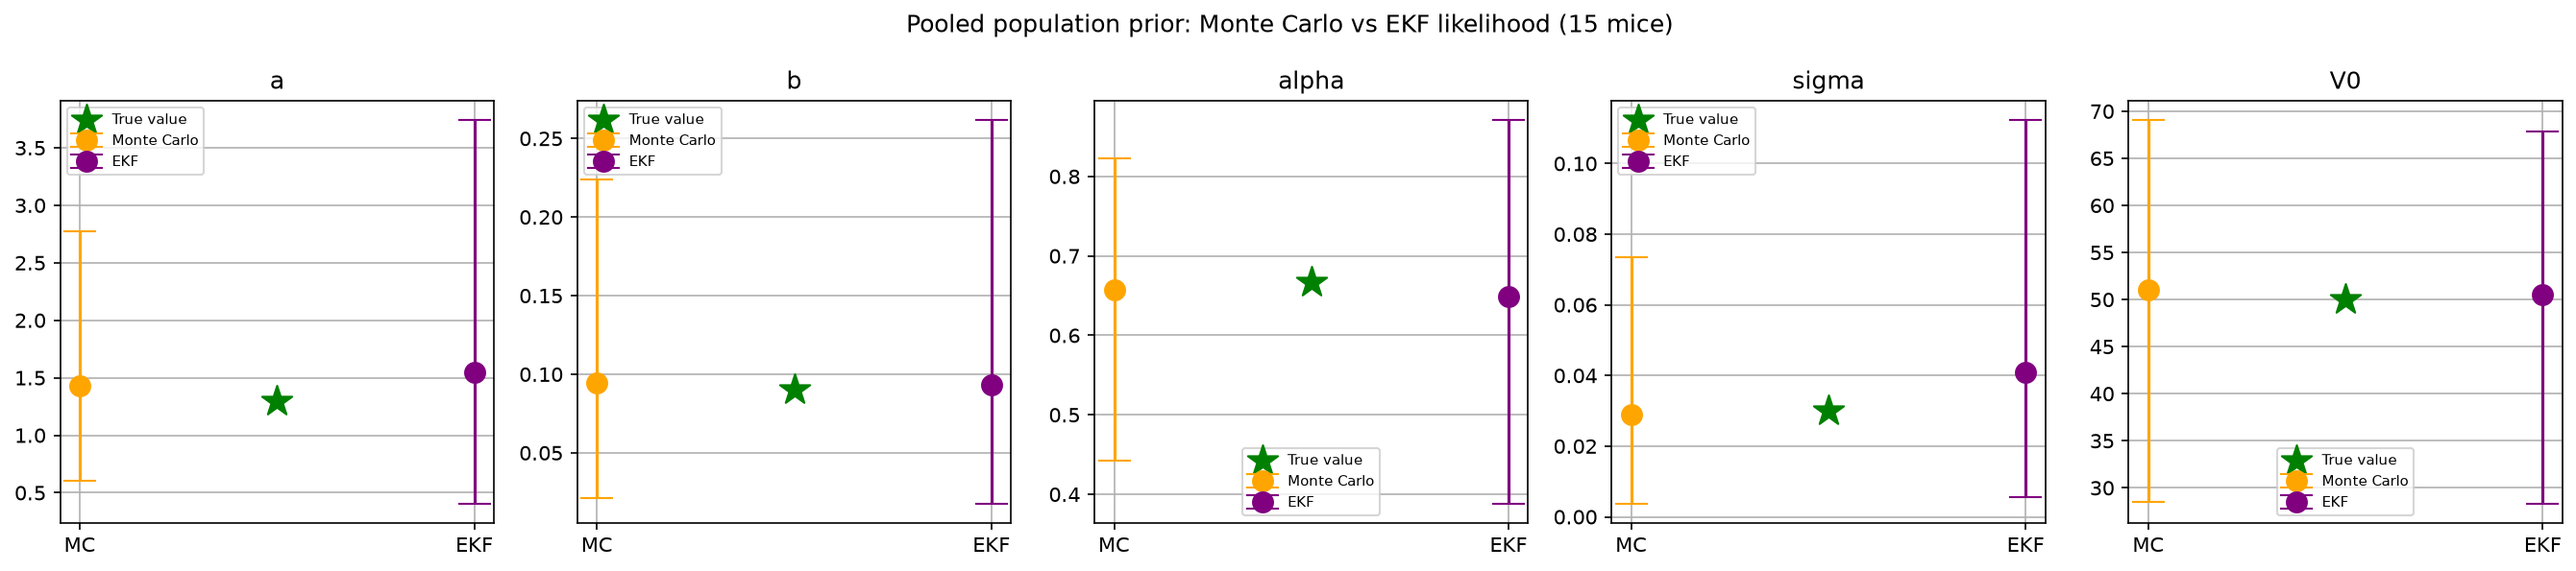
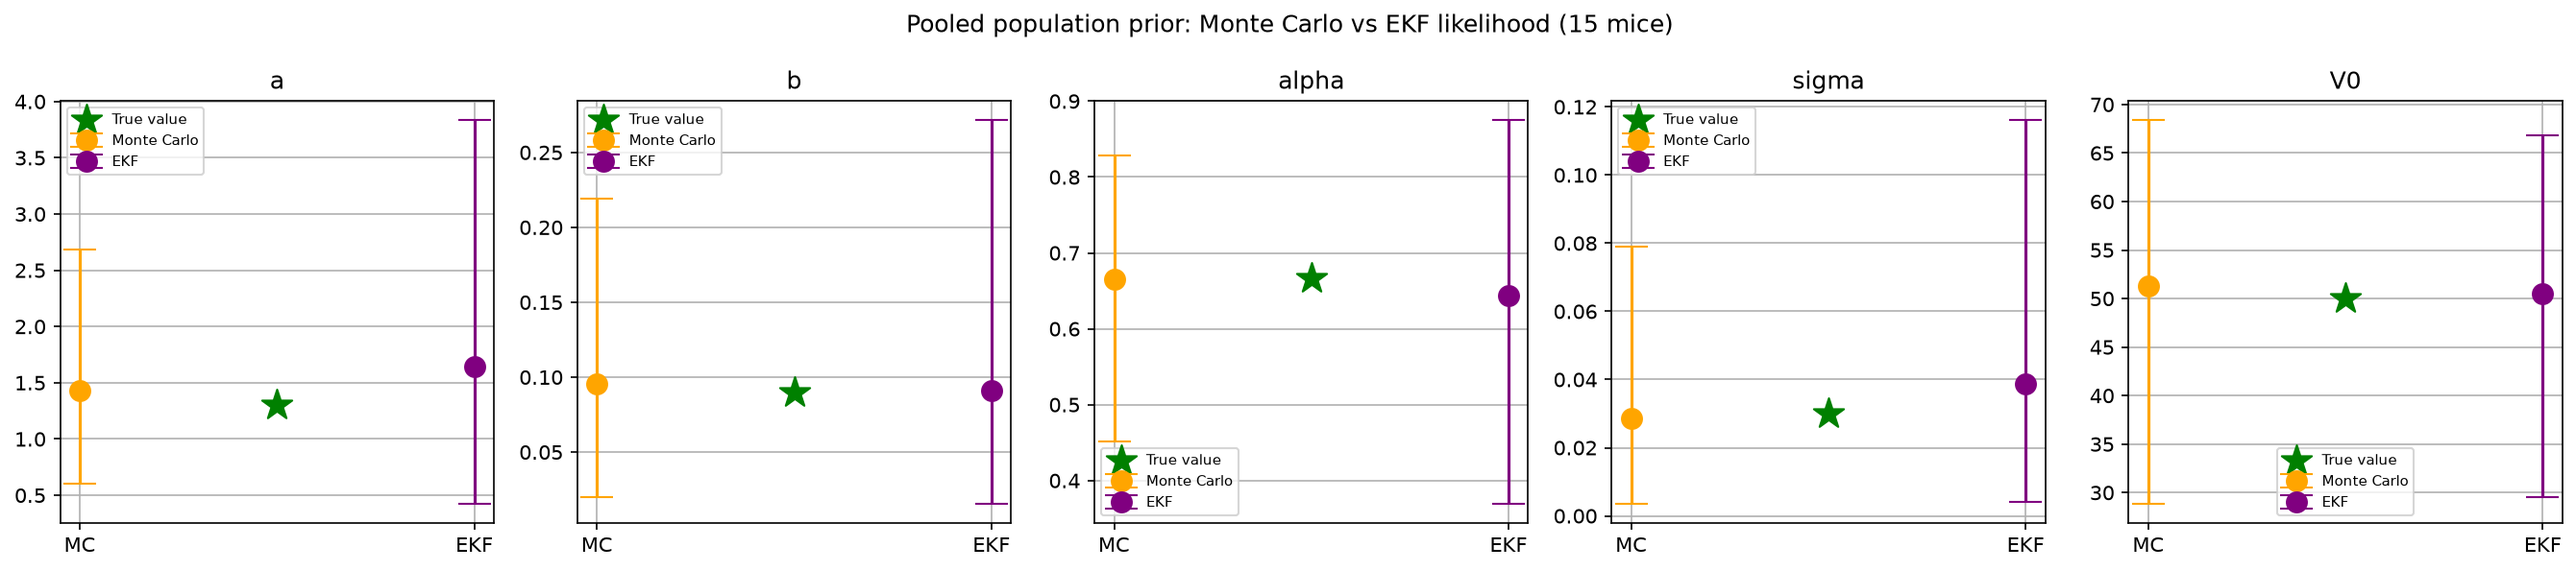
saved the online identification notebook

diff --git a/src/calibration.py b/src/calibration.py
@@ -323,3 +323,230 @@ def get_weights_nsm_resampled_diversified(param_samples, V0_samples, observed_da
             log_w = np.zeros(n_samples)
 
     return weights_history, all_curves, current_params
+
+
+
+
+
+def get_weights_nsm_resampled_covariance(param_samples, V0_samples, observed_days, observed_volumes,
+                                            meas_sigma=5.0, ess_threshold_ratio=0.5,
+                                            diversify_scale=0.3):
+    """
+    Same as get_weights_nsm_resampled_diversified, but the
+    post-resampling perturbation uses a Gaussian kernel with the
+    FULL covariance matrix of the current particle set (like the KDE
+    pooling step), instead of an isotropic gaussian per-dimension --
+    this respects correlations between parameters (e.g. b/alpha)
+    instead of perturbing each dimension independently.
+    """
+    n_samples = len(param_samples)
+    n_times = len(observed_days)
+    ess_threshold = ess_threshold_ratio * n_samples
+
+    current_params = param_samples.copy()
+    current_V0 = V0_samples.copy()
+
+    all_curves = np.full((n_samples, n_times), np.nan)
+    weights_history = np.zeros((n_samples, n_times))
+    log_w = np.zeros(n_samples)
+
+    for t_idx in range(n_times):
+        day = observed_days[t_idx]
+        y_obs = observed_volumes[t_idx]
+
+        for i in range(n_samples):
+            a, b, alpha = current_params[i]
+            V0 = current_V0[i]
+
+            def ode_rhs(t, V):
+                return a * V**alpha - b * V
+
+            sol = solve_ivp(ode_rhs, [0, day], [V0], method="RK45",
+                             rtol=1e-4, atol=1e-4)
+            if not sol.success:
+                log_w[i] = -np.inf
+                continue
+
+            predicted = sol.y[0][-1]
+            all_curves[i, t_idx] = predicted
+
+            residual = y_obs - predicted
+            log_w[i] += -0.5 * (residual / meas_sigma) ** 2
+
+        finite_mask = np.isfinite(log_w)
+        w = np.zeros(n_samples)
+        w[finite_mask] = np.exp(log_w[finite_mask] - np.max(log_w[finite_mask]))
+        w = w / w.sum()
+        weights_history[:, t_idx] = w
+
+        ess = 1.0 / np.sum(w ** 2)
+        if ess < ess_threshold and t_idx < n_times - 1:
+            idx_resample = np.random.choice(n_samples, size=n_samples, p=w)
+            resampled_params = current_params[idx_resample]
+            resampled_V0 = current_V0[idx_resample]
+
+            # perturbation with the FULL covariance of the (pre-resample) params
+            n_dim = 4  # a, b, alpha treated jointly + V0 separately
+            combined = np.column_stack([current_params, current_V0])
+            cov = np.cov(combined, rowvar=False)
+
+            # Silverman-style bandwidth scaling on the covariance
+            n_eff = n_samples
+            bandwidth_scale = diversify_scale * (4 / (n_dim + 2))**(1/(n_dim+4)) * n_eff**(-1/(n_dim+4))
+            perturbation = np.random.multivariate_normal(
+                mean=np.zeros(n_dim), cov=cov * bandwidth_scale**2, size=n_samples
+            )
+
+            resampled_combined = np.column_stack([resampled_params, resampled_V0]) + perturbation
+            current_params = resampled_combined[:, :3]
+            current_V0 = np.clip(resampled_combined[:, 3], 1.0, None)
+            log_w = np.zeros(n_samples)
+
+    return weights_history, all_curves, current_params, current_V0
+
+
+
+
+def get_weights_nsm_resampled_covariance_always(param_samples, V0_samples, observed_days, observed_volumes,
+                                                    meas_sigma=5.0, diversify_scale=0.3):
+    """
+    Same as get_weights_nsm_resampled_covariance, but resamples and
+    diversifies at EVERY measurement step, not just when ESS drops
+    below a threshold -- prevents weight accumulation from ever
+    building up enough to collapse.
+    """
+    n_samples = len(param_samples)
+    n_times = len(observed_days)
+
+    current_params = param_samples.copy()
+    current_V0 = V0_samples.copy()
+
+    all_curves = np.full((n_samples, n_times), np.nan)
+    weights_history = np.zeros((n_samples, n_times))
+
+    for t_idx in range(n_times):
+        day = observed_days[t_idx]
+        y_obs = observed_volumes[t_idx]
+
+        log_w = np.zeros(n_samples)  # fresh weights each step, not cumulative
+
+        for i in range(n_samples):
+            a, b, alpha = current_params[i]
+            V0 = current_V0[i]
+
+            def ode_rhs(t, V):
+                return a * V**alpha - b * V
+
+            sol = solve_ivp(ode_rhs, [0, day], [V0], method="RK45",
+                             rtol=1e-4, atol=1e-4)
+            if not sol.success:
+                log_w[i] = -np.inf
+                continue
+
+            predicted = sol.y[0][-1]
+            all_curves[i, t_idx] = predicted
+
+            residual = y_obs - predicted
+            log_w[i] = -0.5 * (residual / meas_sigma) ** 2
+
+        finite_mask = np.isfinite(log_w)
+        w = np.zeros(n_samples)
+        w[finite_mask] = np.exp(log_w[finite_mask] - np.max(log_w[finite_mask]))
+        w = w / w.sum()
+        weights_history[:, t_idx] = w
+
+        if t_idx < n_times - 1:
+            idx_resample = np.random.choice(n_samples, size=n_samples, p=w)
+            resampled_params = current_params[idx_resample]
+            resampled_V0 = current_V0[idx_resample]
+
+            n_dim = 4
+            combined = np.column_stack([current_params, current_V0])
+            cov = np.cov(combined, rowvar=False)
+
+            n_eff = n_samples
+            bandwidth_scale = diversify_scale * (4 / (n_dim + 2))**(1/(n_dim+4)) * n_eff**(-1/(n_dim+4))
+            perturbation = np.random.multivariate_normal(
+                mean=np.zeros(n_dim), cov=cov * bandwidth_scale**2, size=n_samples
+            )
+
+            resampled_combined = np.column_stack([resampled_params, resampled_V0]) + perturbation
+            current_params = resampled_combined[:, :3]
+            current_V0 = np.clip(resampled_combined[:, 3], 1.0, None)
+
+    return weights_history, all_curves, current_params, current_V0
+
+
+
+def get_weights_nsm_particle_filter(param_samples, V0_samples, observed_days, observed_volumes,
+                                      meas_sigma=5.0, diversify_scale=0.3, ess_threshold_ratio=0.5):
+    """
+    Proper particle filter structure: each particle's trajectory is
+    simulated ONCE per segment (from the previous measurement day to
+    the current one), continuing from where it left off -- not
+    re-simulated from t=0 each time. Resampling/diversification only
+    changes which particle continues forward, preserving trajectory
+    continuity.
+    """
+    n_samples = len(param_samples)
+    n_times = len(observed_days)
+    ess_threshold = ess_threshold_ratio * n_samples
+
+    current_params = param_samples.copy()   # (a, b, alpha) per particle, fixed for its lifetime unless resampled
+    current_state = V0_samples.copy()       # current V(t) for each particle, evolves forward
+
+    all_curves = np.full((n_samples, n_times), np.nan)
+    weights_history = np.zeros((n_samples, n_times))
+    log_w = np.zeros(n_samples)
+
+    t_prev = 0.0
+
+    for t_idx in range(n_times):
+        day = observed_days[t_idx]
+        y_obs = observed_volumes[t_idx]
+
+        for i in range(n_samples):
+            a, b, alpha = current_params[i]
+            V_start = current_state[i]
+
+            def ode_rhs(t, V):
+                return a * V**alpha - b * V
+
+            sol = solve_ivp(ode_rhs, [t_prev, day], [V_start], method="RK45",
+                             rtol=1e-4, atol=1e-4)
+            if not sol.success:
+                log_w[i] = -np.inf
+                current_state[i] = np.nan
+                continue
+
+            V_end = sol.y[0][-1]
+            current_state[i] = V_end  # continue from here next segment
+            all_curves[i, t_idx] = V_end
+
+            residual = y_obs - V_end
+            log_w[i] += -0.5 * (residual / meas_sigma) ** 2
+
+        finite_mask = np.isfinite(log_w)
+        w = np.zeros(n_samples)
+        w[finite_mask] = np.exp(log_w[finite_mask] - np.max(log_w[finite_mask]))
+        w = w / w.sum()
+        weights_history[:, t_idx] = w
+
+        ess = 1.0 / np.sum(w ** 2)
+        if ess < ess_threshold and t_idx < n_times - 1:
+            idx_resample = np.random.choice(n_samples, size=n_samples, p=w)
+            current_params = current_params[idx_resample]
+            current_state = current_state[idx_resample]  # continuity preserved: keeps the actual V(t) reached
+
+            # diversify only the (a,b,alpha) going forward, not the state itself
+            cov = np.cov(current_params, rowvar=False)
+            bandwidth_scale = diversify_scale * (4 / 5)**(1/7) * n_samples**(-1/7)
+            perturbation = np.random.multivariate_normal(
+                mean=np.zeros(3), cov=cov * bandwidth_scale**2, size=n_samples
+            )
+            current_params = current_params + perturbation
+            log_w = np.zeros(n_samples)
+
+        t_prev = day
+
+    return weights_history, all_curves

diff --git a/notebooks/online_identification.py b/notebooks/online_identification.py
@@ -343,4 +343,160 @@ for ti in [1, 4, 8]:
 
 print("\nUnique 'a' values in FINAL pool:", len(np.unique(np.round(final_params[:, 0], 4))), "/", n_weight_samples)
 
+# %% [markdown]
+# #### resampled covariance
+
+# %%
+from calibration import get_weights_nsm_resampled_covariance
+np.random.seed(42)
+weights_cov, curves_cov, final_params_cov, final_V0_cov = get_weights_nsm_resampled_covariance(
+    param_samples, V0_samples, test_days, test_volumes
+)
+
+print("=== CLOSE start — ESS with covariance-aware resampling ===")
+for ti in [1, 4, 8]:
+    ess = effective_sample_size(weights_cov[:, ti])
+    print(f"After {ti+1} measurements: ESS = {ess:.1f} / {n_weight_samples} samples")
+
+print("\nUnique 'a' values in FINAL pool:", len(np.unique(np.round(final_params_cov[:, 0], 4))), "/", n_weight_samples)
+
+# %% [markdown]
+# #### resampled covariance always
+
+# %%
+from calibration import get_weights_nsm_resampled_covariance_always
+# %%
+np.random.seed(42)
+weights_always, curves_always, final_params_always, final_V0_always = get_weights_nsm_resampled_covariance_always(
+    param_samples, V0_samples, test_days, test_volumes
+)
+
+print("=== ESS with resampling at EVERY step ===")
+for ti in [1, 4, 8]:
+    ess = effective_sample_size(weights_always[:, ti])
+    print(f"After {ti+1} measurements: ESS = {ess:.1f} / {n_weight_samples} samples")
+
+print("\nUnique 'a' values in FINAL pool:", len(np.unique(np.round(final_params_always[:, 0], 4))), "/", n_weight_samples)
+
+# %% [markdown]
+# ####### Going from strict to not strict
+
+# %%
+# %%
+np.random.seed(42)
+weights_v2, curves_v2, final_params_v2, final_V0_v2 = get_weights_nsm_resampled_covariance_always(
+    param_samples, V0_samples, test_days, test_volumes,
+    meas_sigma=15.0,       # plus permissif, au lieu de 5.0
+    diversify_scale=1.0    # plus de dispersion, au lieu de 0.3
+)
+
+print("=== ESS with wider meas_sigma + stronger diversification ===")
+for ti in [1, 4, 8]:
+    ess = effective_sample_size(weights_v2[:, ti])
+    print(f"After {ti+1} measurements: ESS = {ess:.1f} / {n_weight_samples} samples")
+
+print("\nUnique 'a' values in FINAL pool:", len(np.unique(np.round(final_params_v2[:, 0], 4))), "/", n_weight_samples)
+
+# %% [markdown]
+# ##### does it change prediction precision ?
+
+# %%
+# %%
+fig, axes = plt.subplots(1, 3, figsize=(15, 4), sharey=True)
+time_indices_to_show = [1, 4, 8]
+
+for ax, ti in zip(axes, time_indices_to_show):
+    w = weights_v2[:, ti]
+    weighted_curve = np.average(curves_v2, axis=0, weights=w)
+
+    ax.plot(test_days, curves_v2.T, color="gray", alpha=0.05)
+    ax.plot(test_days, weighted_curve, color="red", linewidth=2, label="Weighted prediction")
+    ax.scatter(test_days[:ti+1], test_volumes[:ti+1], color="black", zorder=5, label="Seen data")
+    ax.scatter(test_days[ti+1:], test_volumes[ti+1:], color="lightgray", zorder=5, label="Future data")
+    ax.set_ylim(0, 2500)
+    ax.set_title(f"After {ti+1} measurements")
+    ax.legend(fontsize=7)
+
+plt.suptitle("Online update with covariance-aware resampling + wider likelihood (fixes weight degeneracy)")
+plt.tight_layout()
+plt.show()
+
+# %% [markdown]
+# ##### FILTER TENTATIVE
+
+# %%
+# %%
+from calibration import get_weights_nsm_particle_filter
+np.random.seed(42)
+weights_pf, curves_pf = get_weights_nsm_particle_filter(
+    param_samples, V0_samples, test_days, test_volumes,
+    meas_sigma=15.0, diversify_scale=1.0
+)
+
+print("=== Proper particle filter — ESS ===")
+for ti in [1, 4, 8]:
+    ess = effective_sample_size(weights_pf[:, ti])
+    print(f"After {ti+1} measurements: ESS = {ess:.1f} / {n_weight_samples} samples")
+
+# %%
+# %%
+fig, axes = plt.subplots(2, 3, figsize=(15, 8), sharey=True, sharex=True)
+time_indices_to_show = [1, 4, 8]
+
+for row, (curves_r, weights_r, row_label) in enumerate([
+    (curves_clean, weights_clean, "Before (original method)"),
+    (curves_pf, weights_pf, "After (particle filter fix)"),
+]):
+    for col, ti in enumerate(time_indices_to_show):
+        ax = axes[row, col]
+        w = weights_r[:, ti]
+        weighted_curve = np.average(curves_r, axis=0, weights=w)
+
+        ax.plot(test_days, curves_r.T, color="gray", alpha=0.05)
+        ax.plot(test_days, weighted_curve, color="red", linewidth=2, marker='o')
+        ax.scatter(test_days[:ti+1], test_volumes[:ti+1], color="black", zorder=5)
+        ax.scatter(test_days[ti+1:], test_volumes[ti+1:], color="lightgray", zorder=5)
+        ax.set_ylim(0, 2500)
+        if row == 0:
+            ax.set_title(f"After {ti+1} measurements")
+        if col == 0:
+            ax.set_ylabel(row_label)
+
+plt.suptitle("Online update, held-out mouse 15 (close start): before vs after particle filter fix")
+plt.tight_layout()
+plt.savefig("../results/particle_filter_before_after.png", dpi=150, bbox_inches="tight")
+plt.show()
+
+# %%
+# %%
+fig, axes = plt.subplots(1, 3, figsize=(15, 4), sharey=True)
+time_indices_to_show = [1, 4, 8]
+
+for ax, ti in zip(axes, time_indices_to_show):
+    w = weights_pf[:, ti]
+    weighted_curve = np.average(curves_pf, axis=0, weights=w)
+
+    ax.plot(test_days, curves_pf.T, color="gray", alpha=0.1)
+    ax.plot(test_days, weighted_curve, color="red", linewidth=2, marker='o', label="Weighted prediction")
+    ax.scatter(test_days[:ti+1], test_volumes[:ti+1], color="black", zorder=5, label="Seen data")
+    ax.scatter(test_days[ti+1:], test_volumes[ti+1:], color="lightgray", zorder=5, label="Future data")
+    ax.set_ylim(0, 2500)
+    ax.set_title(f"After {ti+1} measurements")
+    ax.legend(fontsize=7)
+
+plt.suptitle("Proper particle filter: covariance-aware")
+
+# %%
+# %%
+print("=== Proper particle filter — full metrics ===")
+for ti in [1, 4, 8]:
+    r2 = bayesian_r2(curves_pf, weights_pf[:, ti], test_days, test_volumes, ti)
+    rmse = prediction_rmse(curves_pf, weights_pf[:, ti], test_days, test_volumes, ti)
+    cov = coverage_95(curves_pf, weights_pf[:, ti], test_volumes, ti)
+    ess = effective_sample_size(weights_pf[:, ti])
+    print(f"After {ti+1} measurements: R2={r2:.3f}, RMSE(future)={rmse:.1f} mm3, coverage={cov:.2f}, ESS={ess:.1f}")
+
+# %% [markdown]
+# ##### juste voir
+
 
